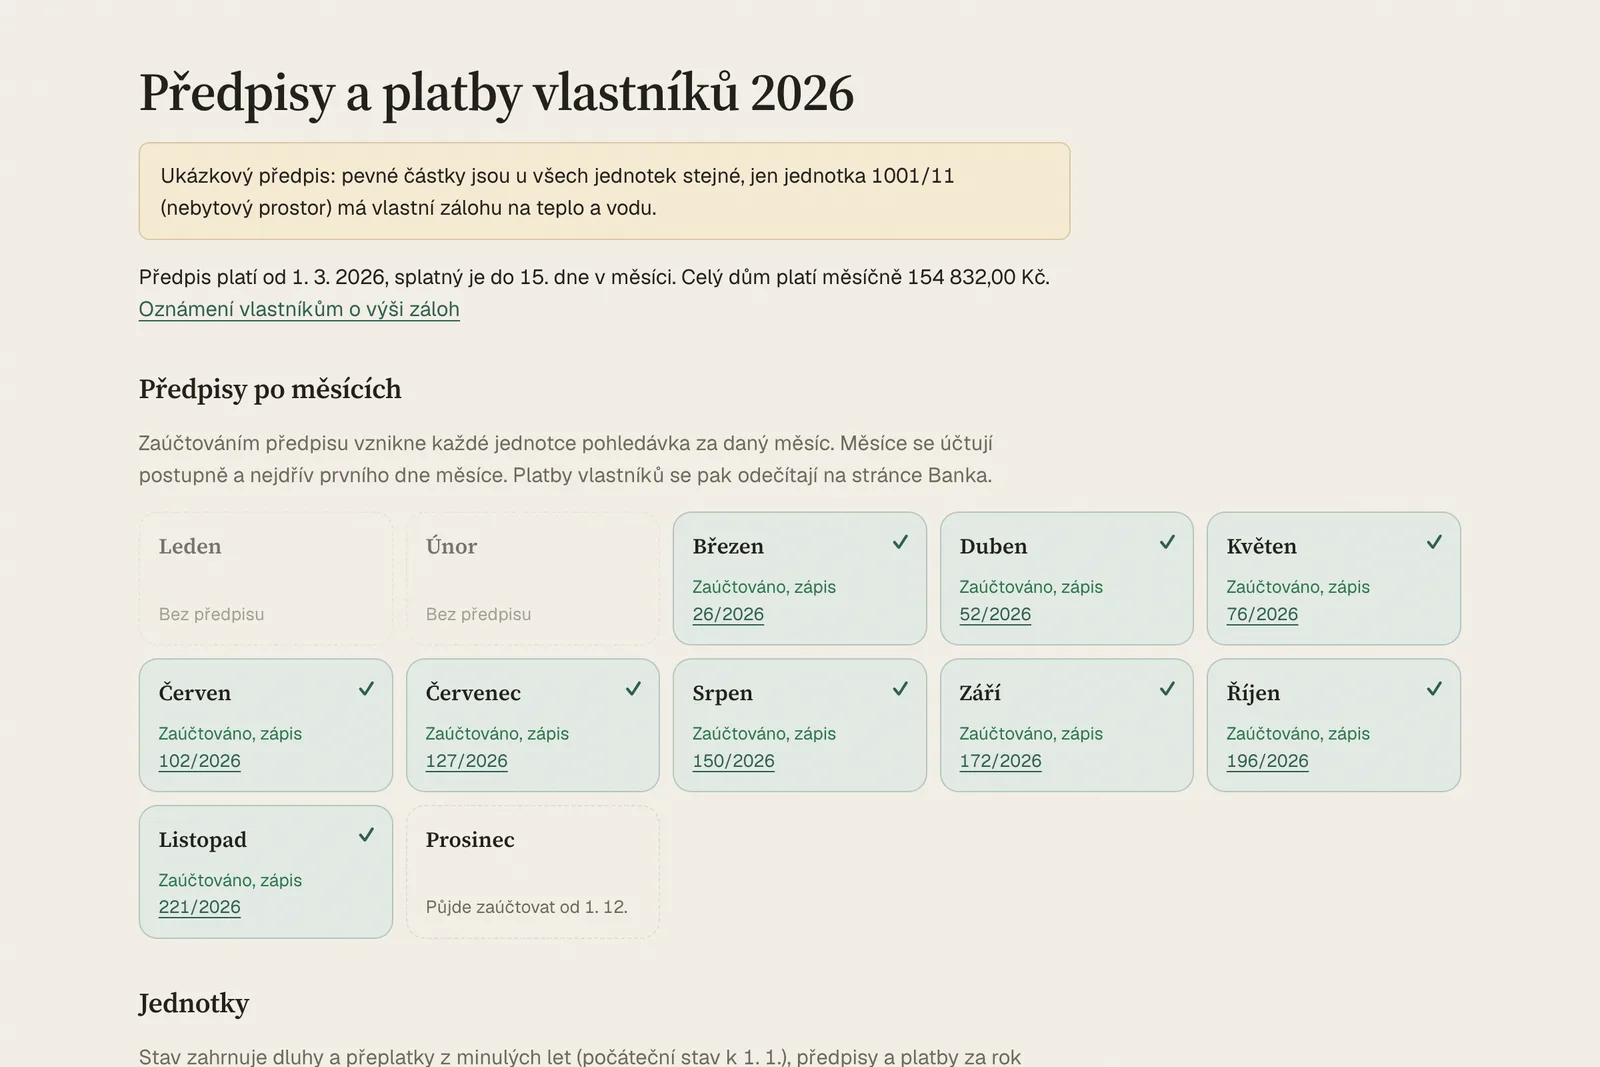
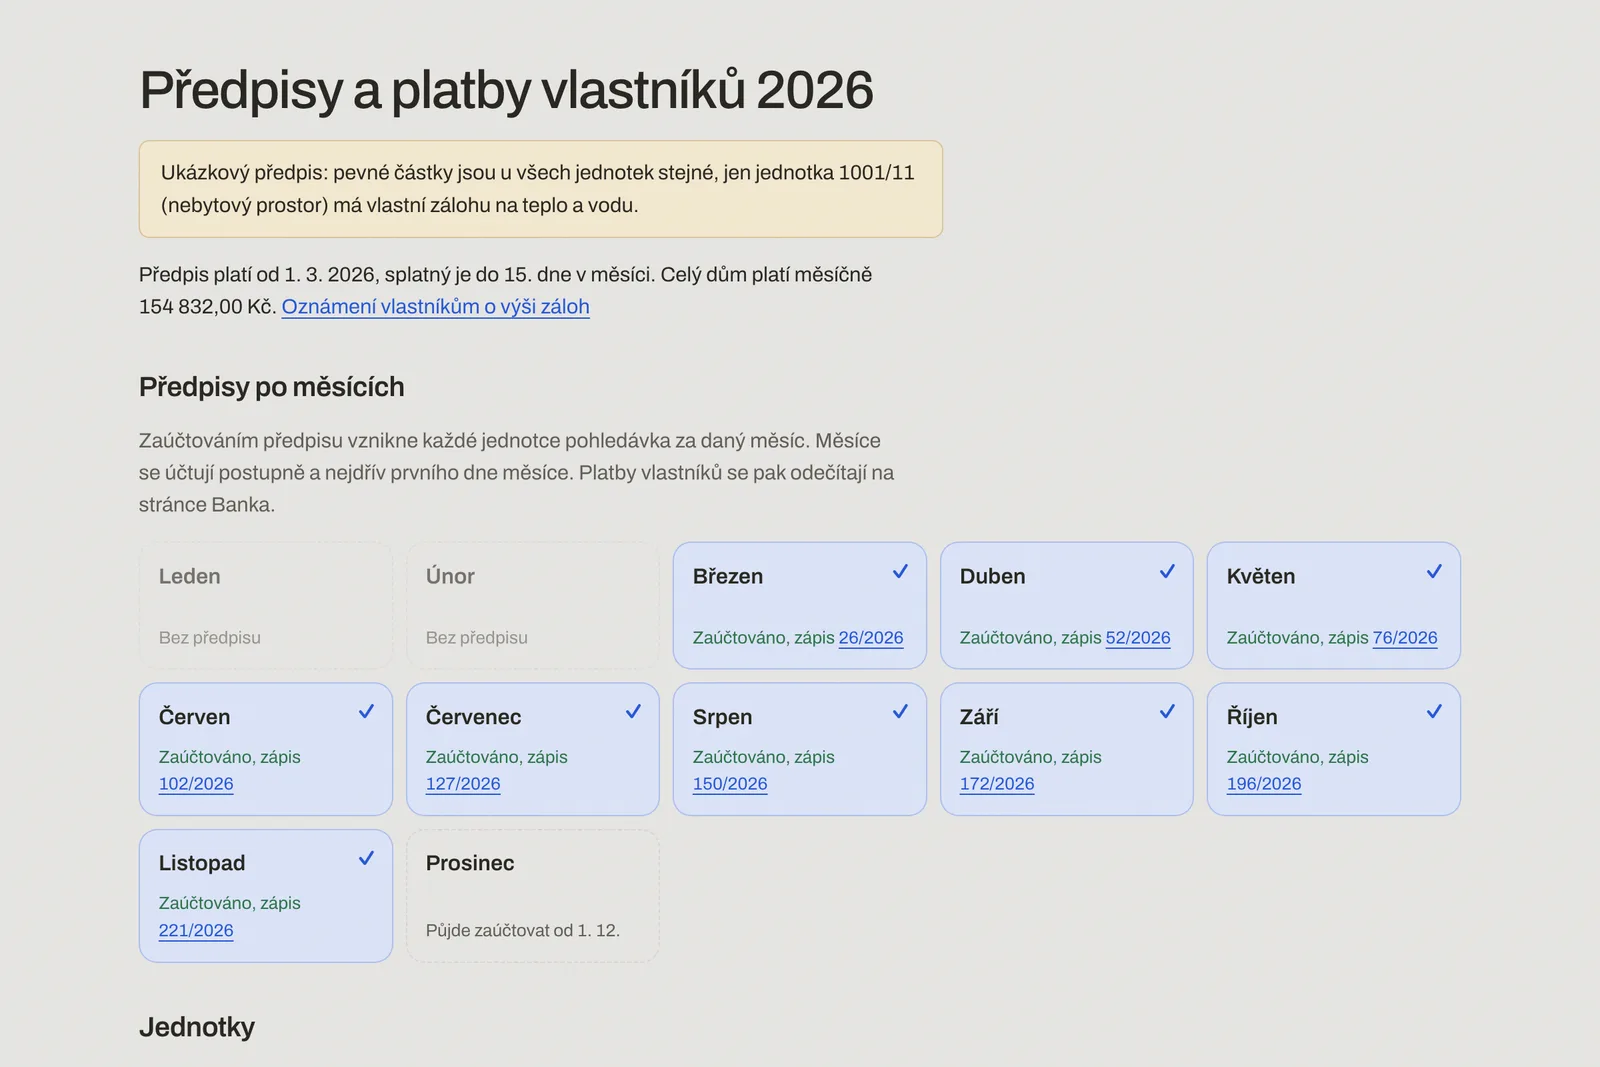
Web: nový vzhled podle aplikace a vzdušnější seznam schopností
Stejná paleta a písmo jako v aplikaci a snímky obrazovek pořízené znovu
v novém vzhledu.

V seznamu Co aplikace umí jsou řádky dál od sebe, vybraná položka má větší
vnitřní okraje a odstup od sousedů a její popis začíná na stejné lince jako
název.

diff --git a/web/styl.css b/web/styl.css
@@ -1,24 +1,24 @@
 /* Prezentační web OpenSVJ. Barvy a písma jsou stejné jako v aplikaci. */
 :root {
-  --pozadi: #f3efe6;
-  --pozadi-2: #e9e2d3;
-  --plocha: #fffdf8;
-  --text: #1f1d18;
-  --tlumeny: #5f594e;
-  --okraj: #d2c9b6;
-  --akcent: #2d5d4d;
-  --akcent-tmavy: #1f4337;
-  --akcent-mekky: #dbe7de;
-  --na-akcentu: #fbfaf5;
+  --pozadi: #dfdedb;
+  --pozadi-2: #d3d2ce;
+  --plocha: #f4f3f0;
+  --text: #26251e;
+  --tlumeny: #5f5d55;
+  --okraj: #c2c1bb;
+  --akcent: #2456d6;
+  --akcent-tmavy: #17358c;
+  --akcent-mekky: #c9d5f5;
+  --na-akcentu: #ffffff;
   --svetlo: #f0b54a;
-  --varovani: #8f5f00;
+  --varovani: #8a5a00;
   --uspech: #2c7349;
-  --okno: #c3ccc5;
-  --fasada: #fffaf0;
-  --fasada-linka: #d9cdb6;
+  --okno: #b9bfca;
+  --fasada: #f4f3f0;
+  --fasada-linka: #bdbcb6;
   --kraj: clamp(20px, 2.6vw, 40px);
-  --pismo: 'Geist', ui-sans-serif, system-ui, -apple-system, 'Segoe UI', sans-serif;
-  --pismo-nadpis: 'Source Serif 4', ui-serif, Georgia, serif;
+  --pismo: 'Archivo', ui-sans-serif, system-ui, -apple-system, 'Segoe UI', sans-serif;
+  --pismo-nadpis: 'Archivo', ui-sans-serif, system-ui, sans-serif;
   /* Pět velikostí písma pro celou stránku. */
   --maly: 0.875rem;
   --zaklad: 1.0625rem;
@@ -35,7 +35,7 @@ body {
   font-family: var(--pismo); font-size: var(--zaklad); line-height: 1.5;
   -webkit-font-smoothing: antialiased; font-variant-numeric: tabular-nums;
 }
-h1, h2 { font-family: var(--pismo-nadpis); font-weight: 600; letter-spacing: -0.015em; line-height: 1.1; margin: 0; }
+h1, h2 { font-family: var(--pismo-nadpis); font-weight: 500; letter-spacing: -0.02em; line-height: 1.1; margin: 0; }
 h1, h2 { font-size: var(--nadpis); }
 p { margin: 0; text-wrap: pretty; }
 a { color: inherit; text-underline-offset: 3px; text-decoration-thickness: 1px; }
@@ -54,7 +54,7 @@ button { font: inherit; cursor: pointer; }
 .tlacitko:hover, [data-ui] button:not(.odkaz):not(.mesic):hover { background: var(--akcent-tmavy); }
 .tlacitko:active, [data-ui] button:not(.odkaz):not(.mesic):active { transform: translateY(1px) scale(0.98); }
 .tlacitko.svetle { background: var(--na-akcentu); color: var(--akcent-tmavy); }
-.tlacitko.svetle:hover { background: #fff; }
+.tlacitko.svetle:hover { background: #e8edfb; }
 button.odkaz { padding: 0; border: 0; background: none; color: var(--akcent); text-decoration: underline; text-underline-offset: 3px; }
 
 /* ---------- Úvod: vlevo sdělení, vpravo dům ---------- */
@@ -68,7 +68,7 @@ button.odkaz { padding: 0; border: 0; background: none; color: var(--akcent); te
   font-family: var(--pismo-nadpis); font-weight: 600; font-size: 1.25rem;
 }
 .uvod-sdeleni { display: grid; gap: 1.1rem; justify-items: start; }
-.uvod-sdeleni h1 { font-size: var(--velky); line-height: 1.05; }
+.uvod-sdeleni h1 { font-size: var(--velky); line-height: 1.02; font-weight: 400; letter-spacing: -0.03em; }
 .uvod-sdeleni p { max-width: 44ch; }
 .uvod-akce { display: flex; flex-wrap: wrap; align-items: center; gap: 0.75rem 1.5rem; margin-top: 0.6rem; }
 .radek { display: block; overflow: hidden; padding-bottom: 0.08em; }
@@ -111,7 +111,7 @@ button.odkaz { padding: 0; border: 0; background: none; color: var(--akcent); te
 .d-jednotka:hover .d-vyber, .d-jednotka:focus-visible .d-vyber { stroke-width: 1.2; }
 .d-jednotka.vybrana .d-vyber { stroke-width: 2.4; }
 .d-truhlik { fill: var(--akcent); }
-.d-kvet { fill: #d9705f; }
+.d-kvet { fill: #e0705f; }
 .d-terc { fill: transparent; }
 .dum-jednotka {
   display: grid; grid-template-columns: 1fr auto; gap: 0.2rem 1rem; align-items: center; width: 100%;
@@ -134,24 +134,26 @@ main > section { margin-top: clamp(6rem, 12vw, 11rem); }
   padding: 0 var(--kraj); align-items: start;
 }
 #umi-hledat {
-  width: 100%; height: 1.9em; padding: 0 0.55em; border: 0; border-radius: 14px;
+  width: 100%; height: 2.2em; padding: 0 var(--odsazeni); border: 0; border-radius: 14px;
   background: var(--pozadi-2); color: var(--text);
   font-family: var(--pismo-nadpis); font-weight: 600; font-size: var(--nadpis); letter-spacing: -0.015em;
 }
 #umi-hledat::placeholder { color: var(--text); opacity: 1; }
 #umi-hledat:focus { outline: 2px solid var(--akcent); outline-offset: 2px; }
 #umi-hledat:focus::placeholder { opacity: 0.35; }
-#umi-polozky { list-style: none; margin: 1.25rem 0 0; padding: 0; }
+.umi-seznam { --odsazeni: clamp(1.1rem, 1.7vw, 1.6rem); }
+#umi-polozky { list-style: none; margin: 2rem 0 0; padding: 0; display: grid; gap: 0.35rem; }
 #umi-polozky li { border-radius: 14px; transition: background-color 0.25s; }
 #umi-polozky li > button {
-  display: block; width: 100%; padding: 0.12em 0.32em 0.16em; border: 0; background: none; color: var(--text);
-  text-align: left; font-family: var(--pismo-nadpis); font-weight: 600; font-size: var(--velky);
-  letter-spacing: -0.02em; line-height: 1.12; border-radius: 14px;
+  display: block; width: 100%; padding: 0.5rem var(--odsazeni); border: 0; background: none; color: var(--text);
+  text-align: left; font-family: var(--pismo-nadpis); font-weight: 400; font-size: var(--velky);
+  letter-spacing: -0.03em; line-height: 1.12; border-radius: 14px;
   transition: transform 0.2s var(--prechod);
 }
 #umi-polozky li > button:hover { transform: translateX(6px); }
-#umi-polozky li > p { display: none; padding: 0 1.1rem 1.1rem; max-width: 46ch; }
-#umi-polozky li.aktivni { background: var(--akcent); color: var(--na-akcentu); }
+#umi-polozky li > p { display: none; padding: 0.35rem var(--odsazeni) 0; max-width: 44ch; }
+#umi-polozky li.aktivni { background: var(--akcent); color: var(--na-akcentu); padding: 0.9rem 0 1.6rem; margin: 0.5rem 0; }
+#umi-polozky li.aktivni:first-child { margin-top: 0; }
 #umi-polozky li.aktivni > button { color: inherit; }
 #umi-polozky li.aktivni > button:hover { transform: none; }
 #umi-polozky li.aktivni > p { display: block; }
@@ -201,10 +203,10 @@ main > section.postup { margin-top: 0; }
   padding: 28px;
 }
 .pole h2 { position: absolute; top: 28px; left: 28px; right: 28px; font-weight: 600; }
-.pole > p { font-family: var(--pismo-nadpis); font-weight: 500; font-size: var(--nadpis); line-height: 1.15; letter-spacing: -0.01em; max-width: 13em; }
+.pole > p { font-family: var(--pismo-nadpis); font-weight: 400; font-size: var(--nadpis); line-height: 1.12; letter-spacing: -0.02em; max-width: 13em; }
 .pole-1 { background: var(--plocha); }
 .pole-2 { background: var(--pozadi-2); }
-.pole-3 { background: #a9c4b3; }
+.pole-3 { background: #a9bbec; }
 .pole-4 { background: var(--akcent-tmavy); color: var(--na-akcentu); }
 .platba {
   position: absolute; top: 30%; left: 50%; width: min(260px, calc(100% - 40px)); transform: translateX(-50%);
@@ -220,7 +222,7 @@ main > section.postup { margin-top: 0; }
 .platba-navrh { margin-top: 0.4rem; padding: 0.5rem 0.65rem; border-radius: 8px; background: var(--akcent-mekky); color: var(--akcent-tmavy); font-size: 0.8125rem; }
 .platba-volba { margin-top: 0.3rem; padding: 0.45rem 0.65rem; border: 1px solid var(--okraj); border-radius: 8px; font-size: 0.8125rem; }
 .platba-tlacitko { margin-top: 0.5rem; justify-self: start; padding: 0.5rem 1rem; border-radius: 999px; background: var(--akcent); color: var(--na-akcentu); font-weight: 550; }
-.platba-hotovo { margin-top: 0.3rem; padding: 0.45rem 0.65rem; border-radius: 8px; background: #e0eee4; color: var(--uspech); font-size: 0.8125rem; }
+.platba-hotovo { margin-top: 0.3rem; padding: 0.45rem 0.65rem; border-radius: 8px; background: #dcebe1; color: var(--uspech); font-size: 0.8125rem; }
 .pole-4 .platba { border-left-width: 1px; border-left-color: var(--okraj); }
 .platba table { width: 100%; margin-top: 0.3rem; border-collapse: collapse; font-size: 0.8125rem; }
 .platba td { padding: 0.3rem 0; border-top: 1px solid var(--okraj); }
@@ -233,11 +235,11 @@ main > section.postup { margin-top: 0; }
   padding: 24px; border-radius: 14px; background: var(--pozadi-2); text-decoration: none;
   transition: background-color 0.2s;
 }
-a.dlazdice:hover { background: #dfd6c3; }
+a.dlazdice:hover { background: #c7c6c1; }
 .dlazdice strong { font-family: var(--pismo-nadpis); font-weight: 600; font-size: var(--nadpis); line-height: 1.12; letter-spacing: -0.015em; }
 
 .dlazdice-hlavni { grid-column: span 2; background: var(--akcent); color: var(--na-akcentu); }
-.dlazdice-hlavni h2 { font-size: var(--velky); max-width: 9em; }
+.dlazdice-hlavni h2 { font-size: var(--velky); max-width: 9em; font-weight: 400; letter-spacing: -0.03em; line-height: 1.02; }
 .dlazdice-hlavni p { max-width: 46ch; }
 
 /* ---------- Závěr ---------- */
@@ -246,7 +248,7 @@ a.dlazdice:hover { background: #dfd6c3; }
   min-height: 90svh; padding: var(--kraj); background: var(--akcent); color: var(--na-akcentu);
 }
 .zaver-text { grid-column: 1 / span 6; align-self: end; display: grid; gap: 1.25rem; }
-.zaver-text h2 { font-size: var(--obri); line-height: 0.95; letter-spacing: -0.03em; }
+.zaver-text h2 { font-size: var(--obri); line-height: 0.95; letter-spacing: -0.035em; font-weight: 400; }
 .zaver-text p { max-width: 42ch; }
 .zaver-okno {
   grid-column: 8 / span 5; display: grid; gap: 1rem; justify-items: start; padding: 1.4rem;
@@ -256,7 +258,7 @@ a.dlazdice:hover { background: #dfd6c3; }
 .zaver-okno button.vedlejsi { padding: 0.45rem 0.9rem !important; font-size: 0.875rem !important; background: rgb(255 255 255 / 0.12) !important; }
 .zaver-okno button.vedlejsi:hover { background: rgb(255 255 255 / 0.2) !important; }
 .zaver-okno pre {
-  width: 100%; margin: 0; padding: 1rem 1.1rem; overflow-x: auto; border-radius: 10px; background: #16302a;
+  width: 100%; margin: 0; padding: 1rem 1.1rem; overflow-x: auto; border-radius: 10px; background: #0f2463;
   font-family: ui-monospace, SFMono-Regular, Menlo, monospace; font-size: 0.875rem; line-height: 1.7;
 }
 .zaver-okno p { font-size: 0.94rem; opacity: 0.85; }
@@ -292,7 +294,7 @@ a.dlazdice:hover { background: #dfd6c3; }
   .umi { grid-template-columns: 1fr; }
   #umi-hledat { height: 56px; font-size: 1.25rem; }
   #umi-polozky li > button { font-size: clamp(1.9rem, 8.5vw, 3rem); }
-  .umi-nahled { position: static; margin: 0 0.6rem 0.6rem; border-radius: 10px; }
+  .umi-nahled { position: static; margin: 1.4rem var(--odsazeni) 0; border-radius: 10px; }
   .rok { min-height: 86svh; }
   .rok-pruh { left: var(--kraj); bottom: 6vh; width: 130vw; font-size: 15vw; }
   .rok-mesice { grid-template-columns: repeat(12, 1fr); }

diff --git a/web/index.html b/web/index.html
@@ -15,12 +15,12 @@
     />
     <meta property="og:image" content="img/aplikace.jpg" />
     <meta property="og:type" content="website" />
-    <meta name="theme-color" content="#f3efe6" />
+    <meta name="theme-color" content="#dfdedb" />
     <link rel="icon" type="image/svg+xml" href="favicon.svg" />
     <link rel="preconnect" href="https://fonts.googleapis.com" />
     <link rel="preconnect" href="https://fonts.gstatic.com" crossorigin />
     <link
-      href="https://fonts.googleapis.com/css2?family=Geist:wght@400..650&family=Source+Serif+4:opsz,wght@8..60,500..600&display=swap"
+      href="https://fonts.googleapis.com/css2?family=Archivo:wght@400..650&display=swap"
       rel="stylesheet"
     />
     <link rel="stylesheet" href="styl.css" />
@@ -33,13 +33,13 @@
       <div class="uvod-text">
         <a class="znacka" href="#top" aria-label="OpenSVJ">
           <svg viewBox="0 0 28 28" width="32" height="32" aria-hidden="true">
-            <path d="M10 6.5 Q14 2.5 18 6.5Z" fill="#d9cdb6" />
-            <rect x="4" y="6.5" width="20" height="2.4" rx="0.8" fill="#d9cdb6" />
-            <rect x="5.5" y="8.9" width="17" height="17.6" rx="0.6" fill="#fffdf8" />
-            <rect x="8.5" y="11.5" width="3.8" height="5" rx="0.5" fill="#cfd6d0" />
+            <path d="M10 6.5 Q14 2.5 18 6.5Z" fill="#bdbcb6" />
+            <rect x="4" y="6.5" width="20" height="2.4" rx="0.8" fill="#bdbcb6" />
+            <rect x="5.5" y="8.9" width="17" height="17.6" rx="0.6" fill="#f4f3f0" />
+            <rect x="8.5" y="11.5" width="3.8" height="5" rx="0.5" fill="#b9bfca" />
             <rect x="15.7" y="11.5" width="3.8" height="5" rx="0.5" fill="#f0b54a" />
-            <rect x="8.5" y="19" width="3.8" height="5" rx="0.5" fill="#cfd6d0" />
-            <rect x="15.7" y="19" width="3.8" height="7.5" rx="0.5" fill="#2d5d4d" />
+            <rect x="8.5" y="19" width="3.8" height="5" rx="0.5" fill="#b9bfca" />
+            <rect x="15.7" y="19" width="3.8" height="7.5" rx="0.5" fill="#2456d6" />
           </svg>
           <span>OpenSVJ</span>
         </a>
